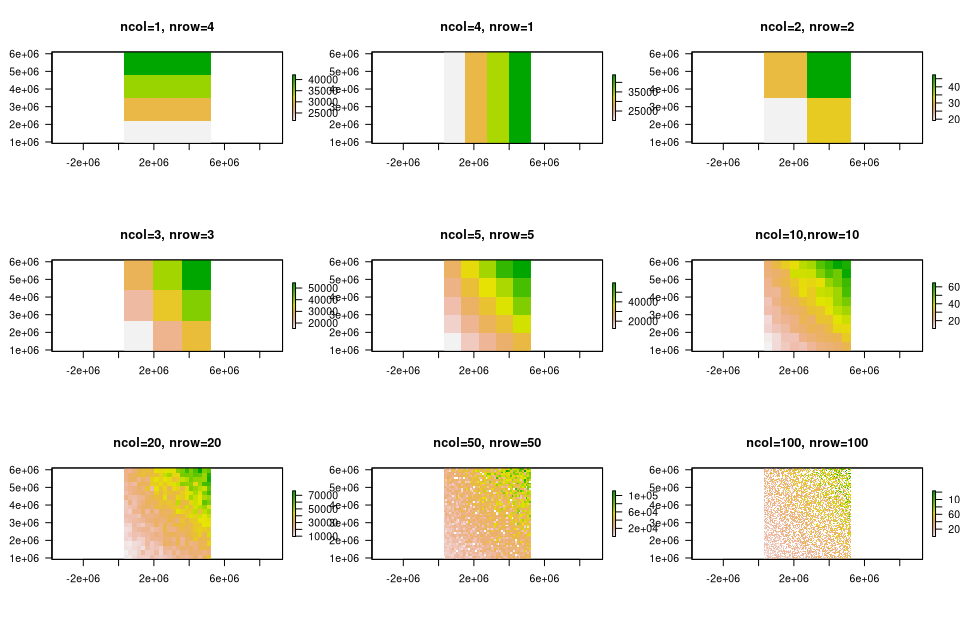
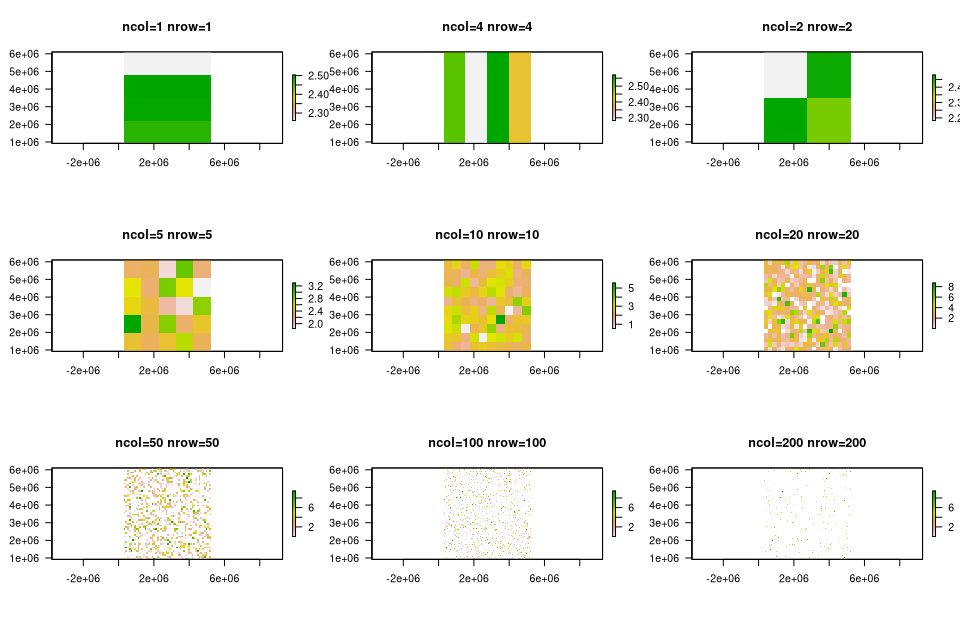
simplify exampöles

diff --git a/docs/units/_unit04/unit04-02_sitzung.md b/docs/units/_unit04/unit04-02_sitzung.md
@@ -1,5 +1,5 @@
 ---
-title: "Sitzung 2 - Region, Distanz und räumlicher Einfluß"
+title: 'Sitzung 2: Region, Distanz und räumlicher Einfluß'
 toc: true
 toc_label: Inhalt
 ---
@@ -65,7 +65,7 @@ Betrachten wir diese Zusammenhänge einmal ganz praktisch mit unserem Datensatz.
 
 Um den Zusammenhang von Zonierung und Aggregation grundsätzlich zu verstehen erzeugen wir einen synthesischen Datensatz, der eine *Region* (angenommen wird die gesamte Ausdehnung Deutschlands) mit 10000 *Haushalten* enthält. Für jeden Haushalt ist der Ort und sein Jahreseinkommen bekannt. In einem nächsten Schritt werden die Daten in unterschiedliche Zonen aggregiert. Zunächst werden die `nuts3_kreise` eingeladen. Sie dienen der Georefrenzierung der Beispiel-Daten. Zunächst wir ein Datensatz von 10k zufällig über dem Gebiet Deutschlands verteilter Koordinaten erzeugt. Diesem werden dann zufällige Einkommensdaten zugewürfelt.
 
-GI-konzeptionell erzeugen wir jetzt Tabellen die einerseits die Variable `xy` als Geokoordinate andererseits in der Variablen  `income` eine Merkmalsausprägung in Form von Haushaltseinkommen enthalten. Da wir die Ausdehnung des nuts3_kreise Datensatz benutzen sind diese Daten auf Deutschland geokodiert. Streng genommen handelt es sich darum bereits um ein vollständigen [Geodaten-Datensatz]({{ site.baseurl }}{% link _unit01/unit01-04_reader_geo_raum.md %}).
+GI-konzeptionell erzeugen wir jetzt Tabellen die einerseits die Variable `xy` als Geokoordinate andererseits in der Variablen  `haushalts_einkommen` eine Merkmalsausprägung in Form von Haushaltseinkommen enthalten. Da wir die Ausdehnung des nuts3_kreise Datensatz benutzen sind diese Daten auf Deutschland geokodiert. Streng genommen handelt es sich darum bereits um ein vollständigen [Geodaten-Datensatz]({{ site.baseurl }}{% link _unit01/unit01-04_reader_geo_raum.md %}).
 {: .notice--primary}
 
 
@@ -76,17 +76,17 @@ nuts3_kreise = readRDS(file.path(rootDIR,"nuts3_kreise.rds"))
 
 # für die Reproduzierbarkeit der Ergebnisse muss ein beliebiger `seed` gesetzt werden
 set.seed(0) 
-
+nhh = 1000
 
 # Normalverteilte Erzeugung von zufälligen Koordinatenpaaren
 # in der Ausdehnung der nuts3_kreise Daten
 # mit cbind() wird die einzelne Zahl des Breiten und des
 # Längengrads in zwei verbundene Spalten geschrieben
 # runif(10000,) erzeugt 10000 Zahlen innerhalb der Werte extent()
-xy <- cbind(x=runif(10000, extent(nuts3_kreise)[1], extent(nuts3_kreise)[3]), y=runif(10000, extent(nuts3_kreise)[2], extent(nuts3_kreise)[4]))
+xy <- cbind(x=runif(nhh , extent(nuts3_kreise)[1], extent(nuts3_kreise)[3]), y=runif(nhh, extent(nuts3_kreise)[2], extent(nuts3_kreise)[4]))
 
 # Normalverteilte Erzeugung von Einkommensdaten
-income <- (runif(10000) * abs((xy[,1] - (extent(nuts3_kreise)[1] - extent(nuts3_kreise)[3])/2) * (xy[,2] - (extent(nuts3_kreise)[2] - extent(nuts3_kreise)[4])/2))) / 500000000
+haushalts_einkommen  =  runif(1000) * 10*runif(1000)
 ```
 
 Nachdem die Daten erzeugt wurden, schauen wir und die akkumulierte, klassifizierte und räumliche Verteilung der Daten an.
@@ -96,13 +96,13 @@ Nachdem die Daten erzeugt wurden, schauen wir und die akkumulierte, klassifizier
 # Festlegen der Grafik-Ausgabe
 par(mfrow=c(1,3), las=1)
 # Plot der sortieren Einkommen
-plot(sort(income), col=rev(terrain.colors(500)), pch=20, cex=.75, ylab='income')
+plot(sort(haushalts_einkommen), col=rev(terrain.colors(nhh)), pch=20, cex=.75, ylab='Einkommen/Haushalt',xlab='Haushalte')
 
 # Histogramm der Einkommensverteilung 
-hist(income, main='', col=rev(terrain.colors(10)),  xlim=c(0,150000), breaks=seq(0,150000,10000))
+hist(haushalts_einkommen, main='', col=rev(terrain.colors(10)),  xlim=c(0,max(haushalts_einkommen)), breaks=seq(0,max(haushalts_einkommen)+1,1),xlab="Einkommen/Haushalt",ylab="Anzahl")
 
 # Räumlicher Plot der Haushalte, Farbe und Größe markieren das Einkommen
-plot(xy, xlim=c(extent(nuts3_kreise)[1], extent(nuts3_kreise)[3]), ylim=c(extent(nuts3_kreise)[2], extent(nuts3_kreise)[4]), cex=income/100000, col=rev(terrain.colors(50))[(income+1)/1200], xlab="Rechtwert",ylab="Hochwert" )
+plot(xy, xlim=c(extent(nuts3_kreise)[1], extent(nuts3_kreise)[3]), ylim=c(extent(nuts3_kreise)[2], extent(nuts3_kreise)[4]), cex=haushalts_einkommen/2, col=rev(terrain.colors(10)[round(haushalts_einkommen,0) + 1]), xlab="Rechtwert",ylab="Hochwert" )
 ```
 
 <img src="{{ site.baseurl }}/assets/images/unit04/zone_result-1.png" width="1000px" height="550px" />
@@ -115,19 +115,17 @@ Gini-Koeffizient und [Lorenz-Kurve](https://wirtschaftslexikon.gabler.de/definit
 
 ```r
 # Berechnung Gini Koeffizient
-ineq(income,type="Gini")
+ineq(haushalts_einkommen,type="Gini")
 ```
 
 ```
-## [1] 0.3993752
+## [1] 0.4992696
 ```
 
 ```r
-## [1] 0.3993752
-
 # Plot der Lorenz Kurve
 par(mfrow=c(1,1), las=1)
-plot(Lc(income),col="darkred",lwd=2)
+plot(Lc(haushalts_einkommen),col="darkred",lwd=2)
 ```
 
 <img src="{{ site.baseurl }}/assets/images/unit04/lorenz-1.png" width="400px" height="400px" />
@@ -137,30 +135,30 @@ plot(Lc(income),col="darkred",lwd=2)
 
 Um die Bedeutung unterschiedlicher Regionen in Bezug auf die aggregierten Daten zu zeigen werden mit Hilfe des `raster` Pakets neun unterschiedliche  Regionalisierungen mit der Ausdehnung und Georeferenzierung von Deutschland erzeugt. 
 
-GI-konzeptionell erzeugen wir jetzt ein kontinuierliches Raster das aus einer  Anzahl von Reihen (`nrow`) und Spalten (`ncol`) besteht. Diesem *leeren* Raster wird die Ausdehnung und Georefrenzierung aus unserem bereits als `sf` Geoobjekt exisistierenden `nuts3_kreise` zugewiesen (`xmn=extent(nuts3_kreise)[1]`...). Schliesslich werden die zuvor erzeugten Werte (Variable `income`) an den Positionen  `xy`) in diese leeren Raster einggetragen. Fertig ist ein Geodatensatz im Rasterdatenmodell.
+GI-konzeptionell erzeugen wir jetzt ein kontinuierliches Raster das aus einer  Anzahl von Reihen (`nrow`) und Spalten (`ncol`) besteht. Diesem *leeren* Raster wird die Ausdehnung und Georefrenzierung aus unserem bereits als `sf` Geoobjekt exisistierenden `nuts3_kreise` zugewiesen (`xmn=extent(nuts3_kreise)[1]`...). Schliesslich werden die zuvor erzeugten Werte (Variable `haushalts_einkommen`) an den Positionen  `xy`) in diese leeren Raster einggetragen. Fertig ist ein Geodatensatz im Rasterdatenmodell.
 {: .notice--primary}
 
 
 ```r
-# create different sized and numbered regions
-r1 <- raster(ncol=1, nrow=4, xmn=extent(nuts3_kreise)[1], xmx=extent(nuts3_kreise)[3], ymn=extent(nuts3_kreise)[2], ymx=extent(nuts3_kreise)[4], crs=NA)
-r1 <- rasterize(xy, r1, income, mean)
-r2 <- raster(ncol=4, nrow=1, xmn=extent(nuts3_kreise)[1], xmx=extent(nuts3_kreise)[3], ymn=extent(nuts3_kreise)[2], ymx=extent(nuts3_kreise)[4], crs=NA)
-r2 <- rasterize(xy, r2, income, mean)
-r3 <- raster(ncol=2, nrow=2, xmn=extent(nuts3_kreise)[1], xmx=extent(nuts3_kreise)[3], ymn=extent(nuts3_kreise)[2], ymx=extent(nuts3_kreise)[4], crs=NA)
-r3 <- rasterize(xy, r3, income, mean)
-r4 <- raster(ncol=3, nrow=3, xmn=extent(nuts3_kreise)[1], xmx=extent(nuts3_kreise)[3], ymn=extent(nuts3_kreise)[2], ymx=extent(nuts3_kreise)[4], crs=NA)
-r4 <- rasterize(xy, r4, income, mean)
-r5 <- raster(ncol=5, nrow=5, xmn=extent(nuts3_kreise)[1], xmx=extent(nuts3_kreise)[3], ymn=extent(nuts3_kreise)[2], ymx=extent(nuts3_kreise)[4], crs=NA)
-r5 <- rasterize(xy, r5, income, mean)
-r6 <- raster(ncol=10, nrow=10, xmn=extent(nuts3_kreise)[1], xmx=extent(nuts3_kreise)[3], ymn=extent(nuts3_kreise)[2], ymx=extent(nuts3_kreise)[4], crs=NA)
-r6 <- rasterize(xy, r6, income, mean)
-r7 <- raster(ncol=20, nrow=20, xmn=extent(nuts3_kreise)[1], xmx=extent(nuts3_kreise)[3], ymn=extent(nuts3_kreise)[2], ymx=extent(nuts3_kreise)[4], crs=NA)
-r7 <- rasterize(xy, r7, income, mean)
-r8 <- raster(ncol=50, nrow=50, xmn=extent(nuts3_kreise)[1], xmx=extent(nuts3_kreise)[3], ymn=extent(nuts3_kreise)[2], ymx=extent(nuts3_kreise)[4], crs=NA)
-r8 <- rasterize(xy, r8, income, mean)
-r9 <- raster(ncol=100, nrow=100, xmn=extent(nuts3_kreise)[1], xmx=extent(nuts3_kreise)[3], ymn=extent(nuts3_kreise)[2], ymx=extent(nuts3_kreise)[4], crs=NA)
-r9 <- rasterize(xy, r9, income, mean)
+# erzeugen von 9 künstlichen geometischen Regionen
+# festlegen der Ausdehnung auf die Ausdehnung des nuts_3kreise Geoobjekts
+xmn=extent(nuts3_kreise)[1] 
+xmx=extent(nuts3_kreise)[3]
+ymn=extent(nuts3_kreise)[2] 
+ymx=extent(nuts3_kreise)[4]
+# Definition der Region als Zeilen und Spalten Matrizen 
+regio_matrix = rbind(c(1,4),c(4,1),c(2,2),c(5,5),c(10,10),c(20,20),c(50,50),c(100,100),c(200,200))
+
+# für 1 bis Anzahl der Elemente in regio_matrix wiederhole
+rr=lapply(1:nrow(regio_matrix),function(x){
+  # erezuge Raster mit der Anzahl von Zeilen und Spalten 
+  # sowie der Ausdehnung nuts3_kreise
+  r = raster(ncol=regio_matrix[x,][1], nrow=regio_matrix[x,][2], xmn=xmn, xmx=xmx, ymn=ymn, ymx=ymx)
+  # weise dem Raster seine Georefrenzierung zu
+  crs(r) = sp::CRS("+init=epsg:25832")
+  # lese die Einkommenswerte in Raster wenn notwendig mittle die Werte
+  r = rasterize(xy, r, haushalts_einkommen, mean)        
+})
 ```
 
 Die einzelnen Grafiken verdeutlichen wie die räumliche Anordnung der Zonen verteilt ist. Es handelt sich um 2 Streifenzonierungen und  7 unterschiedlich aufgelöste Gitter von  4x4, 5x5, 10x10, 20x20, 50x50 und 100x100 Regionen.
@@ -169,14 +167,11 @@ Die einzelnen Grafiken verdeutlichen wie die räumliche Anordnung der Zonen vert
 ```r
 # Festlegen der Grafik-Ausgabe
 par(mfrow=c(3,3), las=1)
-
 # Plotten der 9 Regionen
 # in main wird der Titel für jede Grafik definiert
-plot(r1,main="ncol=1, nrow=4"); plot(r2,main="ncol=4, nrow=1");
-plot(r3,main="ncol=2, nrow=2"); plot(r4,main="ncol=3, nrow=3");
-plot(r5,main="ncol=5, nrow=5"); plot(r6,main="ncol=10,nrow=10");
-plot(r7,main="ncol=20, nrow=20");plot(r8,main="ncol=50, nrow=50");
-plot(r9,main="ncol=100, nrow=100")
+for (i in 1:length(rr)){
+plot(rr[[i]],main=paste0("ncol=",regio_matrix[i][1]," nrow=",regio_matrix[i][1]))
+}
 ```
 
 <img src="{{ site.baseurl }}/assets/images/unit04/plot_zone_raster-1.png" width="1100px" height="900px" />
@@ -193,15 +188,10 @@ Wenn man nun die korrespondierenden zonalen Histogramme anschaut, wird deutlich 
 par(mfrow=c(3,3), las=1)
 
 # Plotten der zugehörigen Histogramme
-hist(r1, main='', col=rev(terrain.colors(10)), xlim=c(0,125000), breaks=seq(0, 125000, 12500))
-hist(r2, main='', col=rev(terrain.colors(10)), xlim=c(0,125000), breaks=seq(0, 125000, 12500))
-hist(r3, main='', col=rev(terrain.colors(10)), xlim=c(0,125000), breaks=seq(0, 125000, 12500))
-hist(r4, main='', col=rev(terrain.colors(10)), xlim=c(0,125000), breaks=seq(0, 125000, 12500))
-hist(r5, main='', col=rev(terrain.colors(10)), xlim=c(0,125000), breaks=seq(0, 125000, 12500))
-hist(r6, main='', col=rev(terrain.colors(10)), xlim=c(0,125000), breaks=seq(0, 125000, 12500))
-hist(r7, main='', col=rev(terrain.colors(10)), xlim=c(0,125000), breaks=seq(0, 125000, 12500))
-hist(r8, main='', col=rev(terrain.colors(10)), xlim=c(0,125000), breaks=seq(0, 125000, 12500))
-hist(r9, main='', col=rev(terrain.colors(10)), xlim=c(0,125000), breaks=seq(0, 125000, 12500))
+for (i in 1:length(rr)){
+  hist(rr[[i]],main=paste0("ncol=",regio_matrix[i][1]," nrow=",regio_matrix[i][1]),
+       col=rev(terrain.colors(10)), xlim=c(0,max(haushalts_einkommen)), breaks=seq(0,max(haushalts_einkommen)+1,1),xlab="Einkommen/Haushalt",ylab="Anzahl")
+}
 ```
 
 ![]({{ site.baseurl }}/assets/images/unit04/zone_hist-1.png)<!-- -->
